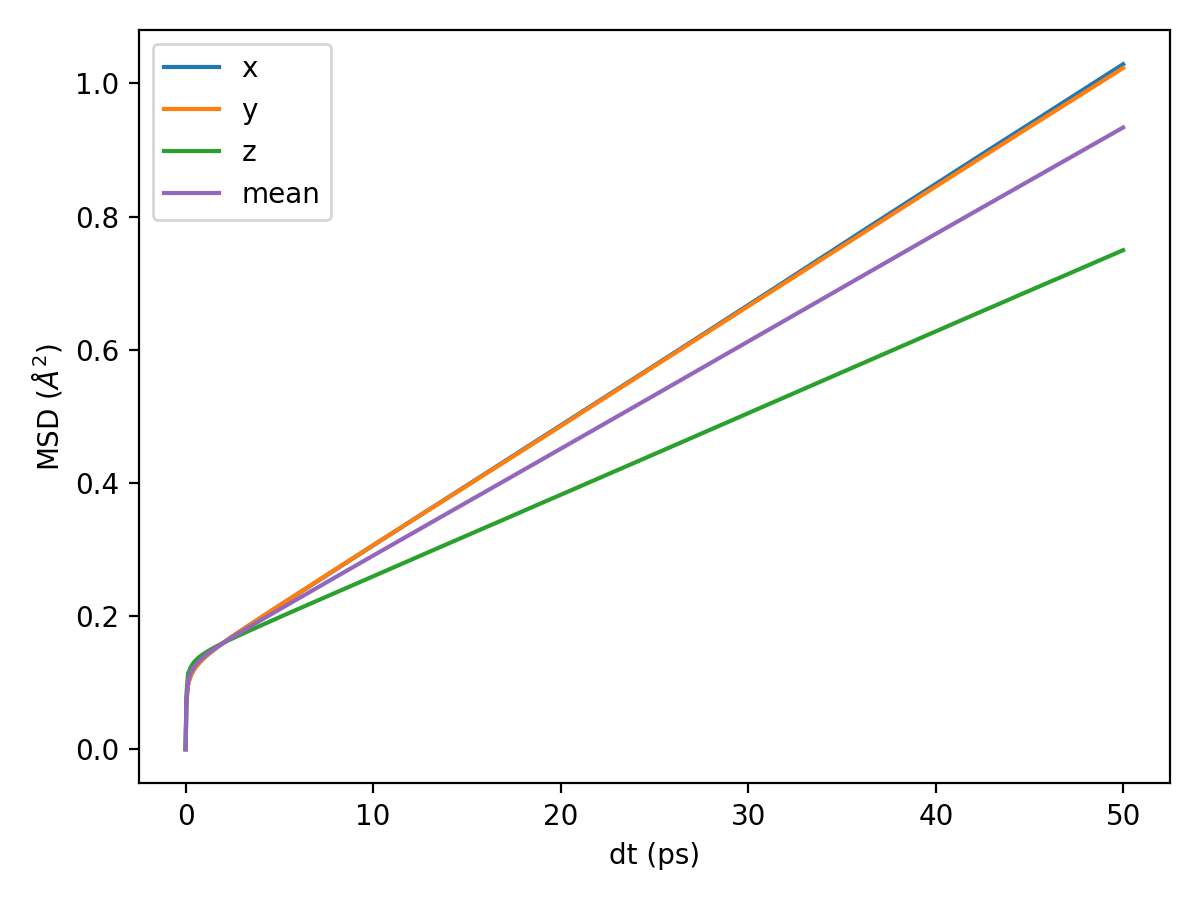
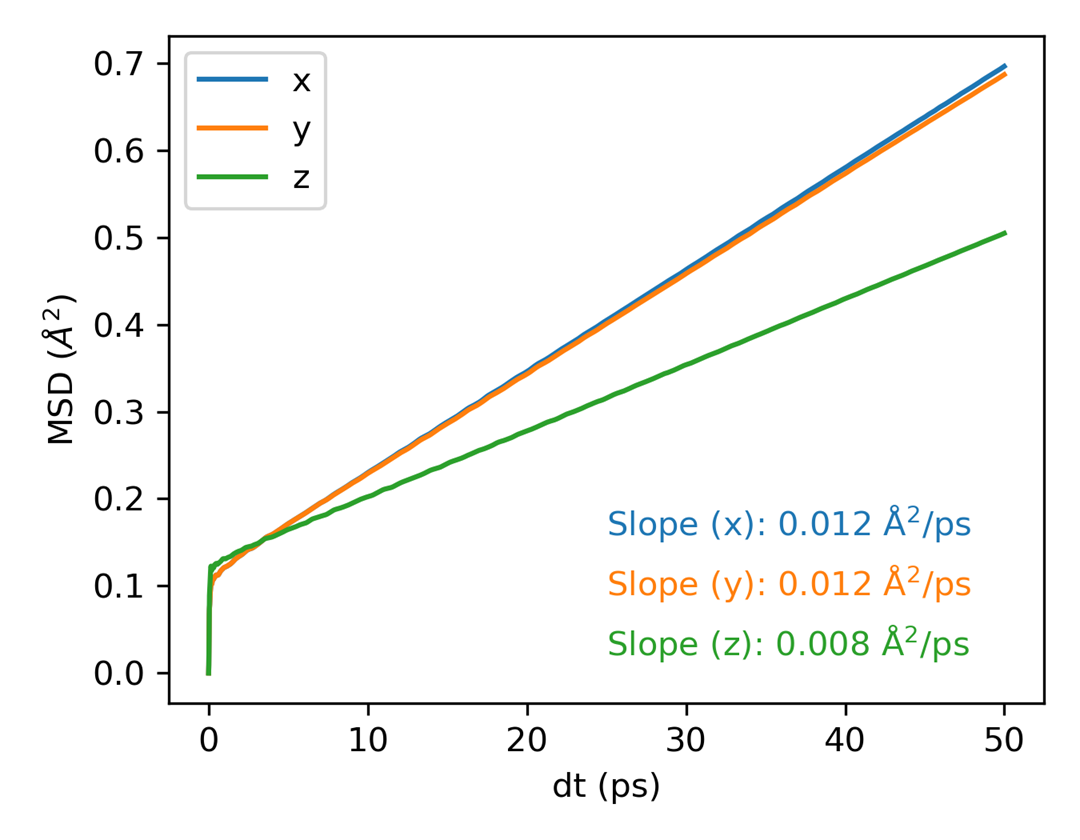
update plots

diff --git a/Scripts/plt_scripts/plt_rdf.py b/Scripts/plt_scripts/plt_rdf.py
@@ -1,0 +1,87 @@
+import matplotlib.pyplot as plt
+import numpy as np
+import sys
+import math
+
+# Function to plot RDF data
+def plot_rdf(file_path, column_index=None, save=False):
+    # Load data from the file
+    data = np.loadtxt(file_path)
+    
+    # Extract distances and RDF values
+    distances = data[:, 0]
+    rdf_values = data[:, 1:]
+
+    # Generate column names (assumes columns after the first one are types)
+    column_names = ['distance'] + [f'column{int(i)}' for i in range(1, rdf_values.shape[1] + 1)]
+    
+    # If a column index is provided, plot only that column
+    if column_index is not None:
+        column_index -= 1  # Adjust to zero-indexing
+        if column_index < 0 or column_index >= len(column_names) - 1:
+            print(f"Invalid column index. Please choose a value between 1 and {len(column_names) - 1}")
+            return
+        
+        plt.figure(figsize=(6, 3.5))
+        # Plot the selected column
+        plt.plot(distances, rdf_values[:, column_index], label=column_names[column_index + 1])
+        plt.xlabel(r'Distance ($\AA$)')
+        plt.ylabel('g(r)')
+        plt.tight_layout()
+        plt.legend()
+        
+        if save:
+            plt.savefig(f'rdf.png', dpi=300)  # Save the plot as PNG
+        else:
+            plt.show()
+    else:
+        # If no column index is provided, plot all columns
+        num_plots = len(column_names) - 1  # Exclude 'total'
+        
+        # Calculate optimal grid size (rows, columns)
+        ncols = int(math.ceil(math.sqrt(num_plots)))  # Determine number of columns
+        nrows = int(math.ceil(num_plots / ncols))     # Determine number of rows
+        
+        # Create subplots with optimal grid layout
+        fig, axes = plt.subplots(nrows=nrows, ncols=ncols, figsize=(ncols * 3.5, nrows * 2.3))
+        
+        # Flatten axes if there's more than 1 row/column
+        axes = axes.flatten() if nrows > 1 else axes
+        
+        # Plot each column in a subplot
+        for i, ax in enumerate(axes):
+            if i < num_plots:  # Only plot for the available number of columns
+                ax.plot(distances, rdf_values[:, i], label=column_names[i + 1])
+                ax.set_xlabel(r'Distance ($\AA$)')
+                ax.set_ylabel('g(r)')
+                ax.legend()
+            else:
+                ax.axis('off')  # Turn off unused axes if the grid is larger than the number of columns
+
+        # Adjust layout
+        plt.tight_layout()
+        
+        if save:
+            plt.savefig(f'rdf.png', dpi=300)  # Save the plot as PNG
+        else:
+            plt.show()
+
+# Check if a column index is provided via command line arguments
+if len(sys.argv) > 1:
+    # Check if the first argument is 'save'
+    if sys.argv[1] == 'save':
+        column_index = None  # If 'save', we want to plot all columns
+        save = True
+    else:
+        # Otherwise, assume the first argument is the column index
+        column_index = int(sys.argv[1])
+else:
+    column_index = None
+
+# Check if 'save' is in sys.argv, this handles the case where 'save' could be in any position
+save = 'save' in sys.argv
+
+file_path = 'rdf.out'
+
+# Call the plot function
+plot_rdf(file_path, column_index, save)

diff --git a/Scripts/plt_scripts/plt_msd.py b/Scripts/plt_scripts/plt_msd.py
@@ -7,6 +7,13 @@ def read_data(file_name):
     data = np.loadtxt(file_name)
     return data[:, 0], data[:, 1], data[:, 2], data[:, 3]
 
+# Function to calculate the slope of the first 50% of the data
+def calculate_slope(x, y):
+    half_idx = len(x) // 2
+    x_half, y_half = x[:half_idx], y[:half_idx]
+    coeffs = np.polyfit(x_half, y_half, 1)  # Linear fit
+    return coeffs[0]  # Slope of the linear fit
+
 # Determine the input file
 #input_file = sys.argv[1] if len(sys.argv) > 1 else './msd.out'
 input_file = './msd.out'
@@ -14,19 +21,25 @@ input_file = './msd.out'
 # Read the data from the file
 time, msd_x, msd_y, msd_z = read_data(input_file)
 
-# Calculate the total MSD
-#msd_total = msd_x + msd_y + msd_z
+slope_x = calculate_slope(time, msd_x)
+slope_y = calculate_slope(time, msd_y)
+slope_z = calculate_slope(time, msd_z)
 
-# Calculate the mean MSD
-msd_mean = (msd_x + msd_y + msd_z)/3
+# Calculate the total MSD and mean MSD
+#msd_total = msd_x + msd_y + msd_z
+#msd_mean = (msd_x + msd_y + msd_z)/3
 
 # Create a plot for the MSD data
-plt.figure(figsize=(6, 4.5), dpi=100)
+plt.figure(figsize=(4.5, 3.5), dpi=150)
 plt.plot(time, msd_x, label='x')
 plt.plot(time, msd_y, label='y')
 plt.plot(time, msd_z, label='z')
-plt.plot(time, msd_mean, label='mean', color='C4')
+#plt.plot(time, msd_mean, label='mean', color='C4')
 #plt.plot(time, msd_total, label='total', color='C5')
+
+plt.text(0.5, 0.3, f'Slope (x): {slope_x:.3f} Å$^2$/ps', fontsize=10, color='C0', verticalalignment='top', transform=plt.gca().transAxes)
+plt.text(0.5, 0.21, f'Slope (y): {slope_y:.3f} Å$^2$/ps', fontsize=10, color='C1', verticalalignment='top', transform=plt.gca().transAxes)
+plt.text(0.5, 0.12, f'Slope (z): {slope_z:.3f} Å$^2$/ps', fontsize=10, color='C2', verticalalignment='top', transform=plt.gca().transAxes)
 
 # Add titles and labels
 #plt.title('MSD vs dt')
@@ -37,6 +50,6 @@ plt.tight_layout()
 #plt.grid(True)
 
 if len(sys.argv) > 1 and sys.argv[1] == 'save':
-    plt.savefig('msd.png')
+    plt.savefig('msd.png', dpi=300)
 else:
     plt.show()

diff --git a/Scripts/plt_scripts/plt_sdc.py b/Scripts/plt_scripts/plt_sdc.py
@@ -1,0 +1,37 @@
+import sys
+import numpy as np
+import matplotlib.pyplot as plt
+
+# Function to read data from the given file
+def read_data(file_name):
+    data = np.loadtxt(file_name)
+    return data[:, 0], data[:, 4], data[:, 5], data[:, 6]
+
+input_file = './msd.out'
+
+# Read the data from the file
+time, sdc_x, sdc_y, sdc_z = read_data(input_file)
+
+# Calculate the total MSD and mean MSD
+#sdc_total = sdc_x + sdc_y + sdc_z
+#sdc_mean = (sdc_x + sdc_y + sdc_z)/3
+
+# Create a plot for the MSD data
+plt.figure(figsize=(4.5, 3.5), dpi=150)
+plt.plot(time, sdc_x, label='x')
+plt.plot(time, sdc_y, label='y')
+plt.plot(time, sdc_z, label='z')
+#plt.plot(time, sdc_mean, label='mean', color='C4')
+#plt.plot(time, sdc_total, label='total', color='C5')
+
+#plt.title('SDC vs dt')
+plt.xlabel('dt (ps)')
+plt.ylabel(r'SDC ($\AA^2$/ps)')
+plt.legend()
+plt.tight_layout()
+#plt.grid(True)
+
+if len(sys.argv) > 1 and sys.argv[1] == 'save':
+    plt.savefig('sdc.png', dpi=300)
+else:
+    plt.show()

diff --git a/Scripts/plt_scripts/README.md b/Scripts/plt_scripts/README.md
@@ -8,7 +8,7 @@ This folder contains Python scripts for visualization of data generated by `GPUM
 
 - `plt_nep_train_results.py`: Python script to visualize parameters during `NEP` training and comparison of `DFT` and `NEP` predictions for `energy`, `force`, `stress`, etc.
 
-  ![](./train.png)
+  <img src="./train.png" alt="msd" width="80%" />
 
 - `plt_nep_train_test.py`: Python script to visualize the parity plot of `*_train.out` and `*_test.out` .
 
@@ -18,11 +18,29 @@ This folder contains Python scripts for visualization of data generated by `GPUM
 
   ![](./prediction.png)
 
-- `plt_msd.py`: Python script to visualize the MSD from `msd.out` file.
+- `plt_msd.py`: Python script to visualize the mean-square displacement ([MSD](https://gpumd.org/glossary.html#term-MSD)) from `msd.out` file.
 
-  <img src="./msd.png" alt="msd" style="zoom: 33%;" />
+  <img src="./msd.png" alt="msd" width="55%" />
 
-  - `thermo.png`, `train.png`, `prediction.png`,`msd.png`: Example output plots generated by the scripts.
+- `plt_sdc.py`: Python script to visualize the self diffusion coefficient ([SDC](https://gpumd.org/glossary.html#term-SDC)) from `sdc.out` file.
+
+  <img src="./sdc.png" alt="sdc" width="55%" />
+
+- `plt_rdf.py`: Python script to visualize the RDF from `rdf.out` file.
+
+  - `python plt_rdf.py [save]` will plot all columns in the `rdf.out`.
+
+    <img src="./rdf1.png" alt="rdf1" width="100%" />
+
+  - `python plt_rdf.py [column] [save]` will plot the specified column in the `rdf.out`.
+
+    <img src="./rdf2.png" alt="rdf2" width="60%" />
+
+- `plt_nep_restart.py`: Python script to visualize the parameters in `nep.restart` file.
+
+  <img src="./nep_restart.png" alt="restart" width="70%" />
+
+`thermo.png`, `train.png`, `train_test.png`, `prediction.png`, `msd.png`, `nep_restart.png`, `rdf.png`: Example output plots generated by the scripts.
 
 
 #### Usage:
@@ -30,10 +48,10 @@ This folder contains Python scripts for visualization of data generated by `GPUM
 You can use `gpumdkit.sh` for simplified execution:
 
 ```bash
-gpumdkit.sh -plt thermo/train/prediction/train_test/msd/vac [save]
+gpumdkit.sh -plt thermo/train/prediction/train_test/msd/sdc/rdf/vac/restart [save]
 ```
 
-Replace `thermo`, `train`, `prediction`, `train_test`, `msd`, `vac` with the desired script keyword.
+Replace `thermo`, `train`, `prediction`, `train_test`, `msd`, `rdf`,`vac`, `restart` with the desired script keyword.
 
 The optional `save` argument will save the plot as a `PNG` file; omitting it will display the plot using `plt.show()`.
 
